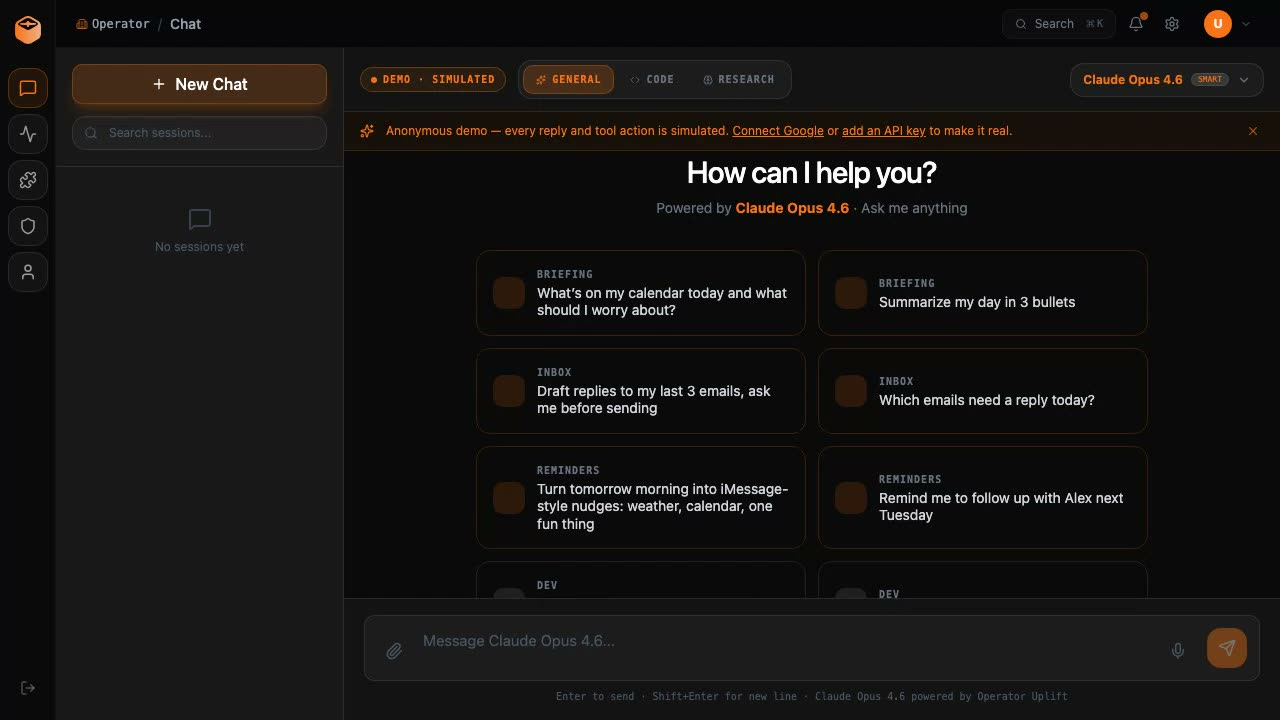
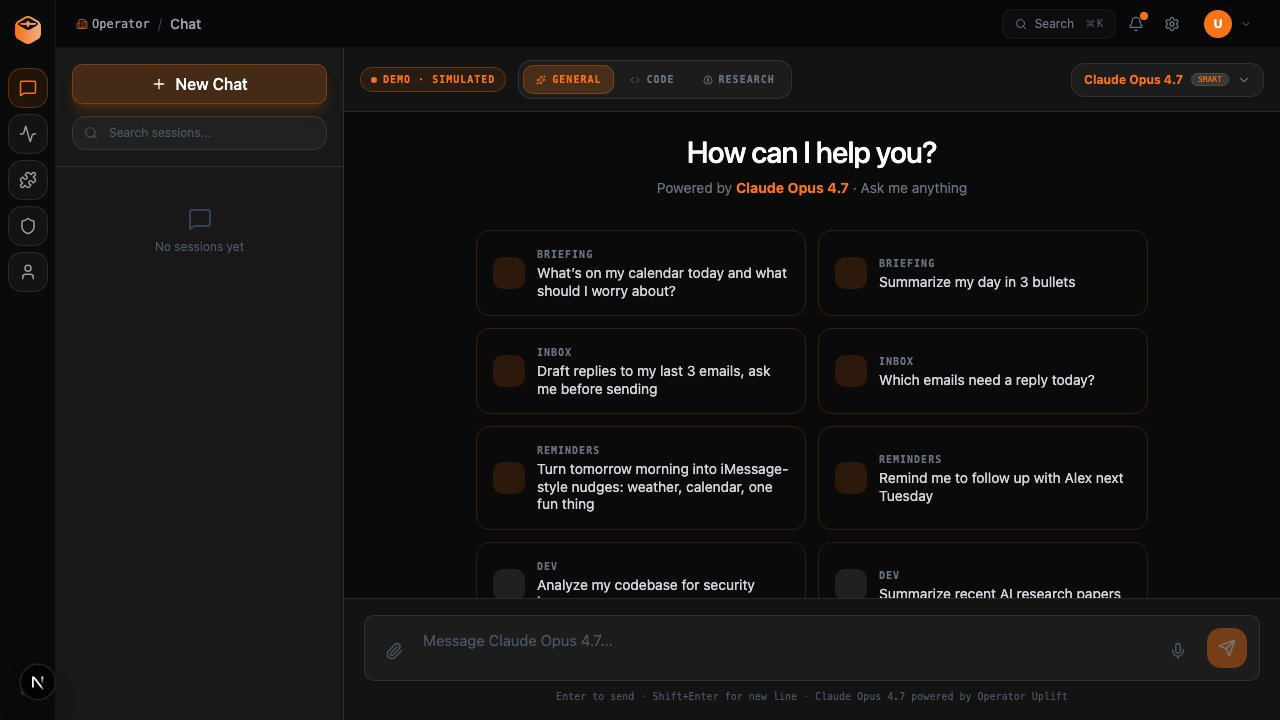
feat(landing): second-pass user feedback (drop install CTA, refresh marquee + poster, retitle hero)
Six items from user feedback:

1. Removed the desktop-installer CTA from the Hero entirely.
   The 'Get early access for Mac' button + the 'Other downloads'
   dropdown together read as repetitive next to the 'Sign in and
   connect Gmail' primary CTA. Deleted DownloadCTA.tsx and the
   matching e2e spec; users still find installers via /docs.

2. Refreshed the 'Works With Any Model' marquee:
   added Claude Haiku 4.5, Gemini 2.5 Flash, DeepSeek V3 to match
   the actual lib/llm.ts routing table. Dropped Qwen 3 and Phi-4
   (we don't ship those).

3. Regenerated the demo video poster from the live /chat page so
   it shows 'Powered by Claude Opus 4.7' instead of the stale 4.6
   capture (with cookie banner dismissed in the snapshot).

4. Trimmed the navbar: removed WATCH DEMO (hero already has the
   anchor), kept PRICING + FAQ.

5. Renamed HELP nav link to DOCS so it points users to docs
   explicitly instead of a vague 'help' label.

6. New hero headline: 'AI that runs on your terms.' Subhead:
   'Drafts your email, schedules your meetings. Nothing goes out
   without your tap.' Replaces 'Inbox and calendar, on autopilot.'
   to lead with consent + control instead of the daily job.

Updated consumer-copy spec to pin the new headline and the new
nav set (PRICING + FAQ + DOCS).

diff --git a/tests/e2e/consumer-copy.spec.ts b/tests/e2e/consumer-copy.spec.ts
@@ -62,11 +62,11 @@ function assertNoBannedPhrases(body: string, surface: string) {
 test('homepage hero shows the consumer pitch', async ({ page }) => {
     await page.goto('/');
 
-    // April 30 2026 trim (#307): hero copy reduced to two short lines.
-    // The "stay in charge" + "Try it free" copy from the prior version
-    // moved to the FAQ + paywall surfaces. This test now pins the new
-    // crisp hero so a regression that re-bloated the headline trips CI.
-    await expect(page.getByText(/Inbox and calendar, on autopilot/i).first()).toBeVisible({ timeout: 10_000 });
+    // April 30 2026 second-pass trim: hero headline switched from
+    // "Inbox and calendar, on autopilot." to "AI that runs on your
+    // terms." per user feedback (the new copy frames consent + control
+    // up front instead of leading with the daily job).
+    await expect(page.getByText(/AI that runs on your terms/i).first()).toBeVisible({ timeout: 10_000 });
     await expect(page.getByRole('link', { name: /sign in and connect gmail/i }).first()).toBeVisible();
 
     const body = await page.locator('body').innerText();
@@ -76,12 +76,12 @@ test('homepage hero shows the consumer pitch', async ({ page }) => {
 test('navbar uses plain-English labels', async ({ page }) => {
     await page.goto('/');
 
-    // April 30 2026 trim (#308) cut HOW IT WORKS (broken anchor),
-    // HELPERS (off-topic for marketing), and BLOG (no posts yet).
-    // Surviving links: WATCH DEMO + PRICING + FAQ.
-    await expect(page.getByText(/WATCH DEMO/).first()).toBeVisible({ timeout: 10_000 });
-    await expect(page.getByText(/PRICING/).first()).toBeVisible();
+    // April 30 2026 trim, second pass: WATCH DEMO removed from nav
+    // (Hero already has a "Watch 90s demo" anchor), HELP relabeled to
+    // DOCS so it points users to docs explicitly.
+    await expect(page.getByText(/PRICING/).first()).toBeVisible({ timeout: 10_000 });
     await expect(page.getByText(/FAQ/).first()).toBeVisible();
+    await expect(page.getByText(/DOCS/).first()).toBeVisible();
 });
 
 test('/paywall sells real features, not the removed council', async ({ page }) => {

diff --git a/src/sections/Hero.tsx b/src/sections/Hero.tsx
@@ -1,7 +1,6 @@
 import React from 'react';
 import Link from 'next/link';
 import HeroAnimation from '@/src/components/HeroAnimation';
-import { DownloadCTA } from '@/src/components/DownloadCTA';
 import TrustedBy from '@/src/components/TrustedBy';
 import AddressDisplay from '@/src/components/AddressDisplay';
 import { APP_CONTENT } from '@/src/services/dataService';
@@ -72,11 +71,12 @@ const Hero: React.FC = () => {
             <div className="absolute inset-0 bg-gradient-to-b from-transparent via-transparent to-background/50 pointer-events-none"></div>
           </div>
 
-          {/* CTAs: one primary action (sign in for the web app),
-              one secondary (watch the recorded demo), and the
-              OS-aware desktop installer. The DownloadCTA replaces
-              the old "Try it free" + OS-tabs widget so we don't
-              show three sign-in entry points. */}
+          {/* Single primary action (sign in for the web app) plus a
+              secondary anchor to the recorded demo. The desktop
+              installer CTA was dropped per user feedback (the Hero
+              already pushes sign-in, and a second orange button for
+              "Get early access for Mac" + the OS picker read as
+              repetitive). Desktop installers stay reachable via /docs. */}
           <FadeIn delay={800}>
             <div className="flex flex-col sm:flex-row items-start gap-3 mb-4">
               <Link href="/login?returnTo=/integrations"
@@ -90,10 +90,6 @@ const Hero: React.FC = () => {
                 Watch 90s demo
               </a>
             </div>
-            <p className="text-[11px] text-gray-500 mb-4 max-w-md">
-              Want to look around first? <Link href="/chat" className="text-gray-300 hover:text-white underline underline-offset-4 decoration-dotted">Try the demo</Link>, no signup, nothing&apos;s real yet.
-            </p>
-            <DownloadCTA />
           </FadeIn>
 
           {/* Works With Any Model (Marquee) */}

diff --git a/src/components/Navbar.tsx b/src/components/Navbar.tsx
@@ -10,16 +10,10 @@ const Navbar: React.FC<NavbarProps> = () => {
   const [mobileMenuOpen, setMobileMenuOpen] = useState(false);
   
   const navItems = [
-    // April 30 2026 trim. HOW IT WORKS pointed at #product which the
-    // homepage no longer renders. HELPERS sent users to the dashboard
-    // /store page, off-topic for marketing. BLOG had no posts yet so
-    // the link surfaced an empty page; bring it back when there are
-    // real posts. See PR #308.
-    //
-    // WATCH DEMO scrolls to the homepage video so the nav link + the
-    // Hero "Watch 90s demo" CTA + the DemoVideo <section id="demo-video">
-    // are one surface.
-    { name: 'WATCH DEMO', targetId: 'demo-video', href: '/#demo-video' },
+    // April 30 2026 trim, second pass. WATCH DEMO was redundant: the
+    // homepage hero already has a "Watch 90s demo" anchor, and a nav
+    // duplicate of that just clutters the bar. Pricing + FAQ remain
+    // because they answer two distinct first-visit questions.
     { name: 'PRICING', targetId: 'pricing', href: '/#pricing' },
     { name: 'FAQ', targetId: 'faq', href: '/#faq' },
   ];
@@ -57,7 +51,7 @@ const Navbar: React.FC<NavbarProps> = () => {
               href="/docs"
               className="group flex items-center text-xs font-bold text-muted hover:text-white transition-colors tracking-[0.15em] px-1"
             >
-              HELP
+              DOCS
             </Link>
           </div>
           
@@ -121,7 +115,7 @@ const Navbar: React.FC<NavbarProps> = () => {
             onClick={() => setMobileMenuOpen(false)}
             className="text-lg font-bold text-white hover:text-primary transition-colors tracking-wide"
           >
-            HELP
+            DOCS
           </Link>
           
           <div className="w-full h-px bg-white/10 my-4" />

diff --git a/src/components/TrustedBy.tsx b/src/components/TrustedBy.tsx
@@ -3,22 +3,25 @@ import React from 'react';
 import { providerLogos } from './ProviderLogos';
 
 const TrustedBy: React.FC = () => {
-  // Pinned to the latest models live on each provider as of the
-  // April 2026 marketing refresh. The chat router (lib/llm.ts +
-  // ModelSelector) ships these specific IDs, so the marquee names
-  // mirror what the user actually picks at runtime.
+  // Marquee entries mirror the models we actually route to in
+  // lib/llm.ts::mapModelId, so a user reading "Claude Haiku 4.5" or
+  // "Gemini 2.5 Flash" can pick that exact model in /chat. Refreshed
+  // April 30 2026: added Haiku 4.5, Gemini 2.5 Flash, and DeepSeek V3
+  // to match the latest routing table; dropped models we don't ship
+  // (Qwen 3, Phi-4) so the marquee no longer overpromises.
   const models = [
     { name: "Claude Opus 4.7", provider: "Anthropic" },
     { name: "Claude Sonnet 4.6", provider: "Anthropic" },
+    { name: "Claude Haiku 4.5", provider: "Anthropic" },
     { name: "GPT-4.1", provider: "OpenAI" },
     { name: "GPT-4o", provider: "OpenAI" },
     { name: "Gemini 2.5 Pro", provider: "Google" },
+    { name: "Gemini 2.5 Flash", provider: "Google" },
     { name: "Grok 3", provider: "xAI" },
-    { name: "DeepSeek-R1", provider: "DeepSeek" },
+    { name: "DeepSeek V3", provider: "DeepSeek" },
+    { name: "DeepSeek R1", provider: "DeepSeek" },
     { name: "Llama 4 Maverick", provider: "Meta" },
-    { name: "Mistral Large 25.03", provider: "Mistral AI" },
-    { name: "Qwen 3", provider: "Alibaba" },
-    { name: "Phi-4", provider: "Microsoft" },
+    { name: "Mistral Large", provider: "Mistral AI" },
     { name: "Ollama", provider: "Ollama" },
     { name: "LM Studio", provider: "LM Studio" },
   ];

diff --git a/src/services/dataService.ts b/src/services/dataService.ts
@@ -50,8 +50,8 @@ export const APP_CONTENT: AppData & { problem: ProblemData; market: MarketData }
   },
   hero: {
     visionTag: "AI ASSISTANT",
-    headline: "Inbox and calendar, on autopilot.",
-    subhead: "AI drafts and schedules. You approve every send.",
+    headline: "AI that runs on your terms.",
+    subhead: "Drafts your email, schedules your meetings. Nothing goes out without your tap.",
     description: "",
     contractAddress: "",
     contractLabel: "",
